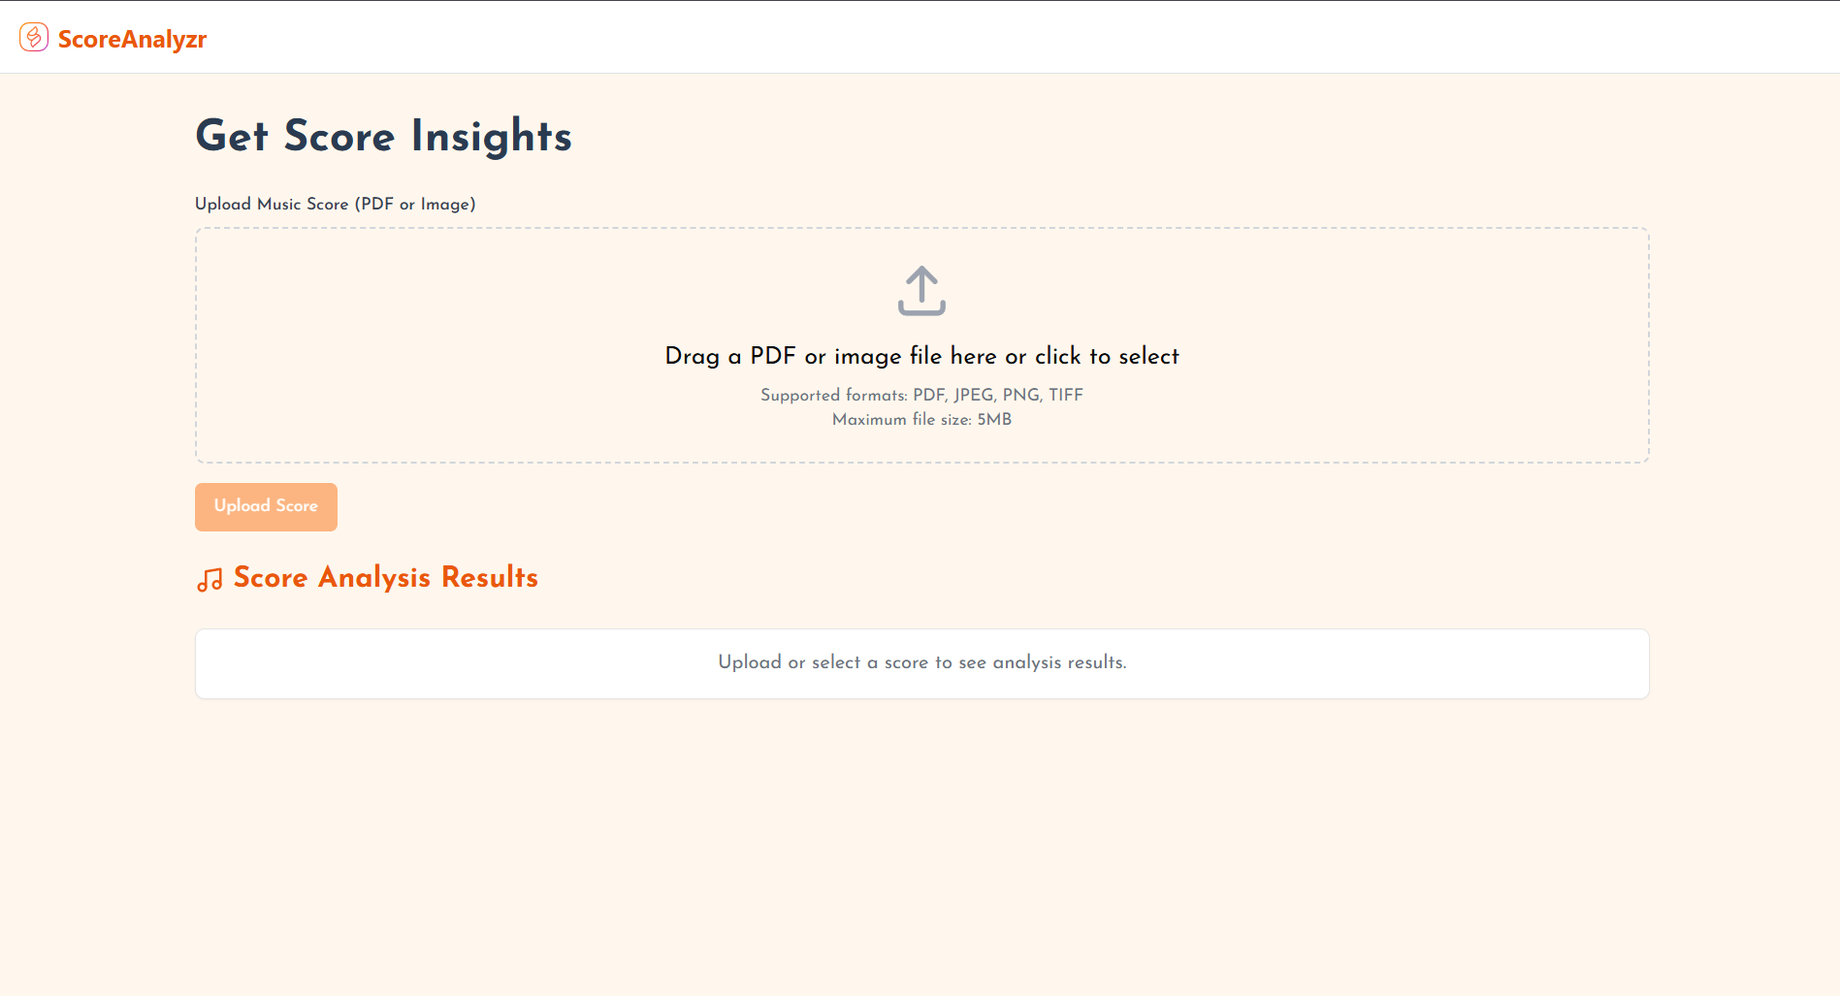
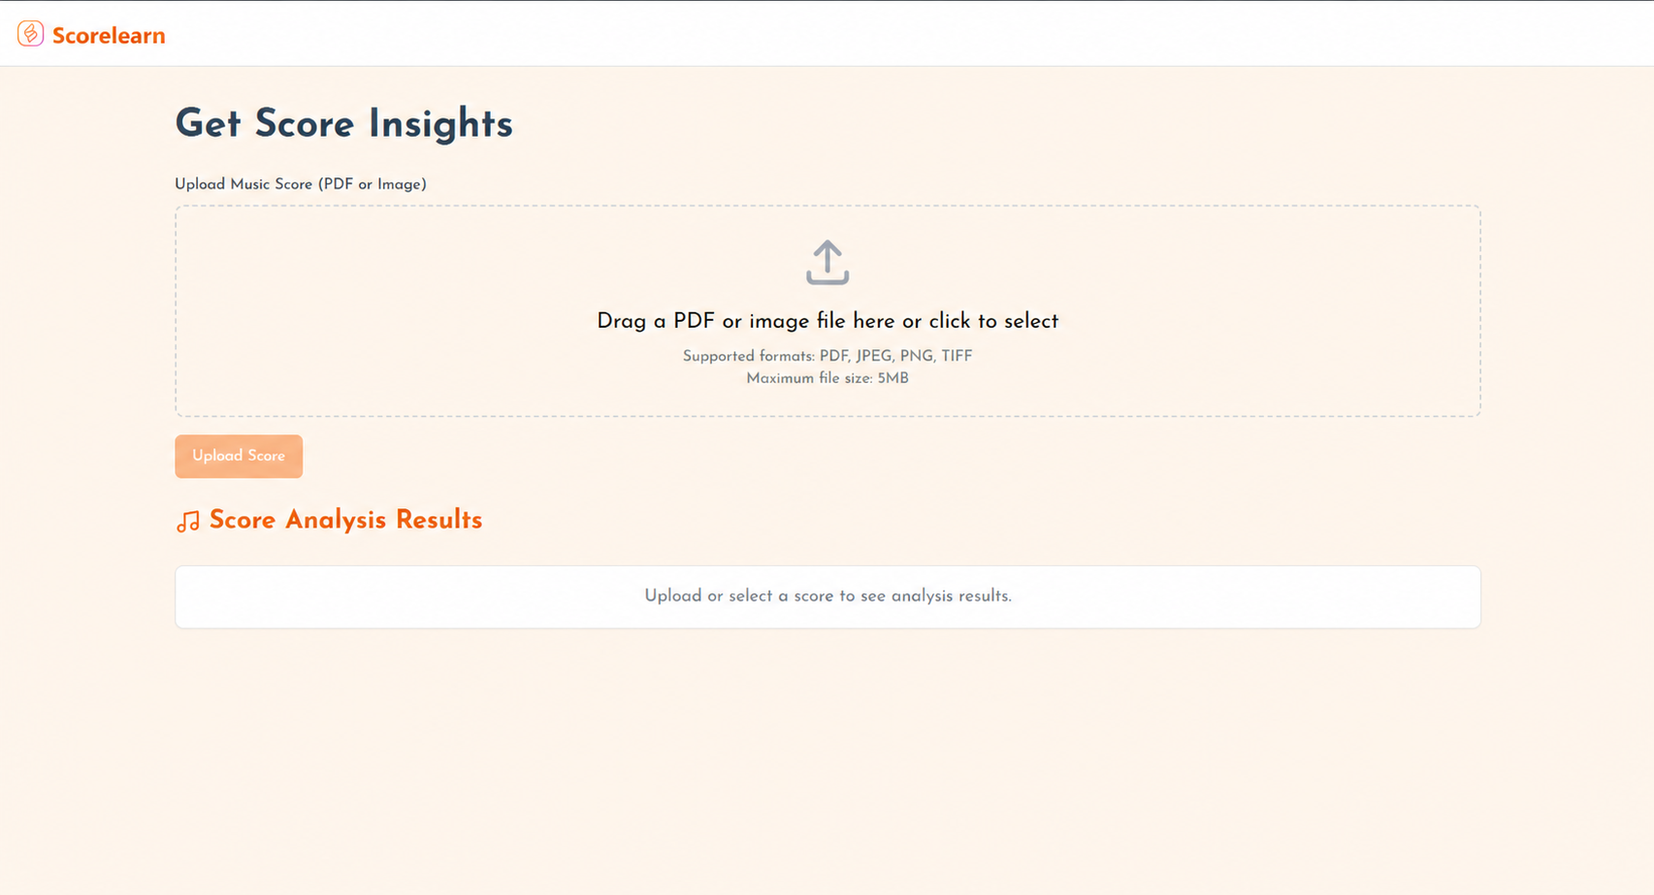
Add Scorelearn portfolio case study

diff --git a/projects/scorelearn.html b/projects/scorelearn.html
@@ -1,0 +1,232 @@
+<!DOCTYPE html>
+<html lang="en">
+
+<head>
+  <meta charset="UTF-8" />
+  <meta http-equiv="X-UA-Compatible" content="IE=edge" />
+  <meta name="viewport" content="width=device-width, initial-scale=1.0" />
+  <link rel="icon" href="../src/assets/me.jpg" />
+  <meta name="description"
+    content="Scorelearn engineering case study by Evans Gitahi: multi-format music transcription, asynchronous processing, symbolic score normalization, music theory analysis, notation, and MIDI playback." />
+  <title>Scorelearn Case Study | Evans Gitahi</title>
+  <link href="../src/output.css" rel="stylesheet">
+  <link rel="stylesheet" href="../src/style.css" />
+  <link rel="stylesheet" href="../src/mediaqueries.css" />
+</head>
+
+<body class="case-study-page">
+  <nav id="desktop-nav" class="nav-container" aria-label="Primary navigation">
+    <a class="logo" href="../index.html#profile">
+      <span class="logo-text gradient-text">Evans Gitahi</span>
+      <span class="logo-subtitle">Full-Stack & DevOps</span>
+    </a>
+    <div>
+      <ul class="nav-links">
+        <li><a href="../index.html#about">About</a></li>
+        <li><a href="../index.html#experience">Skills</a></li>
+        <li><a href="../index.html#career">Experience</a></li>
+        <li><a href="../index.html#projects" aria-current="true">Projects</a></li>
+        <li><a href="../index.html#contact">Contact</a></li>
+      </ul>
+    </div>
+  </nav>
+
+  <nav id="hamburger-nav" aria-label="Mobile navigation">
+    <a class="logo" href="../index.html#profile">
+      <span class="logo-text gradient-text">Evans Gitahi</span>
+      <span class="logo-subtitle">Full-Stack & DevOps</span>
+    </a>
+    <div class="hamburger-menu">
+      <button class="hamburger-icon" type="button" aria-label="Open navigation menu" aria-expanded="false"
+        aria-controls="mobile-menu-links">
+        <span></span>
+        <span></span>
+        <span></span>
+      </button>
+      <ul class="menu-links" id="mobile-menu-links">
+        <li><a href="../index.html#about">About</a></li>
+        <li><a href="../index.html#experience">Skills</a></li>
+        <li><a href="../index.html#career">Experience</a></li>
+        <li><a href="../index.html#projects">Projects</a></li>
+        <li><a href="../index.html#contact">Contact</a></li>
+      </ul>
+    </div>
+  </nav>
+
+  <main class="case-study-main">
+    <section class="case-study-hero">
+      <div class="case-study-hero-inner">
+        <div>
+          <p class="case-study-eyebrow">Music intelligence pipeline case study</p>
+          <h1 class="case-study-title">Scorelearn</h1>
+          <p class="case-study-lede">
+            I built a full-stack workflow that turns sheet-music PDFs, score images, and recorded audio into one
+            analyzable score model, then makes the result visible, playable, downloadable, and easier to understand.
+          </p>
+          <div class="case-study-meta">
+            <div class="case-study-meta-item">
+              <span class="case-study-meta-label">Role</span>
+              <span class="case-study-meta-value">System design, full-stack implementation, and deployment</span>
+            </div>
+            <div class="case-study-meta-item">
+              <span class="case-study-meta-label">Stack</span>
+              <span class="case-study-meta-value">Next.js, TypeScript, Django REST, Celery, PostgreSQL, Redis, Music21</span>
+            </div>
+            <div class="case-study-meta-item">
+              <span class="case-study-meta-label">Core constraint</span>
+              <span class="case-study-meta-value">Unify noisy visual and audio inputs without hiding transcription uncertainty</span>
+            </div>
+            <div class="case-study-meta-item">
+              <span class="case-study-meta-label">Delivery state</span>
+              <span class="case-study-meta-value">Live product with active transcription-quality and hardening work</span>
+            </div>
+          </div>
+          <div class="case-study-actions">
+            <a class="btn btn-color-1" href="https://scorelearn.site" target="_blank" rel="noopener noreferrer"
+              referrerpolicy="no-referrer">Live Demo</a>
+            <a class="btn btn-color-2" href="https://github.com/gitahievans/scoreanalyzr" target="_blank"
+              rel="noopener noreferrer">Frontend Repo</a>
+            <a class="btn btn-color-2" href="https://github.com/gitahievans/nota_db" target="_blank"
+              rel="noopener noreferrer">Backend Repo</a>
+          </div>
+        </div>
+        <figure class="case-study-image">
+          <img src="../src/assets/score.png" alt="Scorelearn score upload and analysis interface" />
+        </figure>
+      </div>
+    </section>
+
+    <div class="case-study-content">
+      <section class="case-study-section case-study-intro">
+        <h2>Engineering brief</h2>
+        <div>
+          <p class="case-study-callout">
+            Scorelearn treats score analysis as a pipeline, not a single AI request. It first converts different media into
+            symbolic music, repairs that intermediate representation, derives inspectable music-theory facts, and only
+            then uses generation to explain those facts to a learner.
+          </p>
+          <div class="case-study-facts" aria-label="Project facts">
+            <div><strong>Inputs</strong><span>PDF, JPEG, PNG, TIFF, WebP, MP3, WAV, and M4A</span></div>
+            <div><strong>Outputs</strong><span>Structured analysis, MusicXML, MIDI, notation, playback, summary</span></div>
+            <div><strong>Surfaces</strong><span>Upload, live job progress, results, score viewer, player</span></div>
+          </div>
+        </div>
+      </section>
+
+      <section class="case-study-section">
+        <h2>System boundary</h2>
+        <div>
+          <p>
+            The browser owns interaction and visualization, while Django owns validation and the score record. Heavy
+            recognition and analysis leave the request cycle entirely: Celery workers branch by source type, converge
+            on MusicXML, and persist both structured results and artifact endpoints for the frontend.
+          </p>
+          <ol class="architecture-flow" aria-label="Scorelearn processing flow">
+            <li><span>01</span><strong>Next.js workspace</strong><small>Upload, task polling, results, notation, playback</small></li>
+            <li><span>02</span><strong>Django REST API</strong><small>File validation, records, task dispatch, artifact delivery</small></li>
+            <li><span>03</span><strong>Celery pipeline</strong><small>Audiveris OMR or Basic Pitch audio transcription</small></li>
+            <li><span>04</span><strong>Symbolic core</strong><small>Normalization, Music21 analysis, MusicXML and MIDI</small></li>
+          </ol>
+        </div>
+      </section>
+
+      <section class="case-study-section">
+        <h2>Critical decisions</h2>
+        <div class="decision-list">
+          <article class="decision-item">
+            <p class="decision-kicker">Decision 01 / Architecture</p>
+            <h3>Converge every source on a symbolic score</h3>
+            <p>PDFs and images pass through Audiveris optical music recognition; audio passes through Basic Pitch to produce MIDI. Both branches become MusicXML before the rest of the product analyzes or presents them.</p>
+            <p class="decision-impact"><strong>Why it matters:</strong> analysis, notation, playback, and downloads share one downstream contract instead of duplicating logic for every input type.</p>
+          </article>
+          <article class="decision-item">
+            <p class="decision-kicker">Decision 02 / Responsiveness</p>
+            <h3>Model long-running work as an observable job</h3>
+            <p>Uploads dispatch a Celery task through Redis. The worker publishes named stages and progress percentages, while React Query polls the score endpoint and stops only at a terminal state.</p>
+            <p class="decision-impact"><strong>Why it matters:</strong> expensive recognition never holds an HTTP request open, and a failed validation, transcription, cleanup, or analysis stage remains visible to the user.</p>
+          </article>
+          <article class="decision-item">
+            <p class="decision-kicker">Decision 03 / Data quality</p>
+            <h3>Repair the transcription before trusting its analysis</h3>
+            <p>The normalization pass quantizes timing and duration, removes duplicate or overlapping note events, limits implausibly dense onsets, selects a clef, and can split piano-range material into two staves.</p>
+            <p class="decision-impact"><strong>Tradeoff:</strong> cleanup can simplify nuance, but it produces a more stable draft for theory analysis and playback. The interface labels audio transcriptions as drafts rather than polished engraving.</p>
+          </article>
+          <article class="decision-item">
+            <p class="decision-kicker">Decision 04 / AI boundary</p>
+            <h3>Derive musical facts before generating an explanation</h3>
+            <p>Music21 detects key, meter, tempo, parts, instrumentation, chords, measures, dynamics, accidentals, and articulations. Gemini receives those results afterward to create a concise, beginner-focused explanation.</p>
+            <p class="decision-impact"><strong>Why it matters:</strong> generative text explains an inspectable analysis payload; it is not asked to infer the score directly from an opaque upload.</p>
+          </article>
+        </div>
+      </section>
+
+      <section class="case-study-section">
+        <h2>Learning workspace</h2>
+        <div class="case-study-grid case-study-grid-three">
+          <article class="case-study-panel">
+            <p class="panel-number">01</p><h3>Inspect the score</h3>
+            <p>OpenSheetMusicDisplay renders the generated MusicXML with responsive zoom and pan, and users can download the symbolic score for work in other notation tools.</p>
+          </article>
+          <article class="case-study-panel">
+            <p class="panel-number">02</p><h3>Hear the result</h3>
+            <p>A Tone.js MIDI player exposes transport, progress, tempo, volume, and instrument controls. Audio uploads keep the source recording available beside the generated score playback.</p>
+          </article>
+          <article class="case-study-panel">
+            <p class="panel-number">03</p><h3>Understand the theory</h3>
+            <p>Results separate primary signatures from structure and performance details, then add an on-demand explanation aimed at learners who may not yet know the terminology.</p>
+          </article>
+        </div>
+      </section>
+
+      <section class="case-study-section">
+        <h2>Production lens</h2>
+        <div>
+          <div class="readiness-table" role="table" aria-label="Scorelearn production readiness">
+            <div class="readiness-row readiness-head" role="row"><span>Concern</span><span>Current evidence</span><span>Boundary</span></div>
+            <div class="readiness-row" role="row"><strong>Frontend</strong><span>Next.js deployed through OpenNext on Cloudflare with a custom domain</span><span class="status-done">Live</span></div>
+            <div class="readiness-row" role="row"><strong>Runtime</strong><span>Containerized Django, Celery, PostgreSQL, Redis, and Caddy services with health checks</span><span class="status-done">Operational topology</span></div>
+            <div class="readiness-row" role="row"><strong>Input safety</strong><span>Extension and MIME allow-lists, explicit source types, file-size checks, isolated job workspaces</span><span class="status-done">Implemented</span></div>
+            <div class="readiness-row" role="row"><strong>Lifecycle</strong><span>Per-job temporary artifacts and delayed cleanup after processing</span><span class="status-watch">Retention depends on artifact access needs</span></div>
+            <div class="readiness-row" role="row"><strong>Accuracy</strong><span>Cleanup metadata, draft labels, stage-specific failures, guidance for unsuitable audio</span><span class="status-watch">Benchmark against a representative score corpus</span></div>
+            <div class="readiness-row" role="row"><strong>Operations</strong><span>Structured worker stages and progress are exposed to the client</span><span class="status-watch">Add service metrics, tracing, and queue alerts</span></div>
+          </div>
+          <p class="case-study-note">
+            Music transcription is probabilistic: clean solo recordings and high-quality scans work better than dense
+            mixes or damaged scores. The product communicates that boundary and presents generated notation as an
+            editable draft, while the next hardening step is measuring accuracy across a representative test corpus.
+          </p>
+        </div>
+      </section>
+
+      <section class="case-study-section">
+        <h2>What this demonstrates</h2>
+        <div>
+          <ul class="case-study-checklist">
+            <li>Designing a heterogeneous media pipeline around a stable symbolic intermediate representation.</li>
+            <li>Moving CPU-heavy recognition into asynchronous workers with explicit progress, failure, and cleanup states.</li>
+            <li>Combining deterministic music analysis with a deliberately narrow generative explanation layer.</li>
+            <li>Building one responsive workspace across upload, analysis, score rendering, audio, MIDI, and downloadable artifacts.</li>
+          </ul>
+          <div class="case-study-tags" aria-label="Technical competencies">
+            <span>Next.js</span><span>TypeScript</span><span>Django REST Framework</span><span>Celery</span>
+            <span>PostgreSQL</span><span>Redis</span><span>Audiveris</span><span>Basic Pitch</span>
+            <span>Music21</span><span>MusicXML</span><span>OpenSheetMusicDisplay</span><span>Tone.js</span>
+            <span>Cloudflare</span><span>Docker</span>
+          </div>
+        </div>
+      </section>
+
+    </div>
+  </main>
+
+  <section class="case-study-nav" aria-label="Project navigation">
+    <div class="case-study-nav-inner">
+      <a class="case-study-nav-link" href="../index.html#projects">Back to Projects</a>
+      <a class="case-study-nav-link" href="./ladyshelf.html">Next Case Study: LadyShelf</a>
+    </div>
+  </section>
+
+  <script type="module" src="../src/main.js"></script>
+</body>
+
+</html>

diff --git a/index.html b/index.html
@@ -63,7 +63,9 @@
       <p class="hero-summary" data-motion-item="summary">I build production-ready applications across the stack, then
         design the delivery pipelines and containerised infrastructure that keep them reliable.</p>
       <div class="btn-container" data-motion-item="actions">
-        <a class="btn btn-color-2" href="./Evans_Gitahi_Resume.pdf" download="Evans_Gitahi_Resume.pdf">
+        <a class="btn btn-color-2"
+          href="https://drive.google.com/file/d/1s9exi6OsiH7BTMlSvVx2Rdby5qKAiZM3/view?usp=sharing"
+          target="_blank" rel="noopener noreferrer" referrerpolicy="no-referrer">
           Download CV
         </a>
         <button class="btn btn-color-1" onclick="location.href='./#contact'">
@@ -330,34 +332,34 @@
     <div class="experience-details-container">
       <div class="about-containers" data-motion-group="projects">
         <div class="details-container color-container">
-          <a class="project-media-link" href="./projects/sceneit.html" aria-label="Read the SceneIt case study">
+          <a class="project-media-link" href="./projects/scorelearn.html" aria-label="Read the Scorelearn case study">
             <div class="article-container-project">
-              <img src="./src/assets/sceneit.png" alt="SceneIt movie recommendation app" class="project-img" />
+              <img src="./src/assets/score.png" alt="Scorelearn music score analysis workspace" class="project-img" />
               <div class="project-tech-stack">
                 <span>Next.js</span>
-                <span>Supabase</span>
-                <span>TMDB API</span>
+                <span>Django</span>
+                <span>Music21</span>
               </div>
             </div>
           </a>
           <h2 class="experience-sub-title project-title">
-            <a href="./projects/sceneit.html">SceneIt</a>
+            <a href="./projects/scorelearn.html">Scorelearn</a>
           </h2>
           <p class="project-description">
-            A movie discovery app with trending titles, genre browsing, protected auth flows, and personalized
-            recommendations powered by TMDB, Supabase, and AI-assisted discovery.
+            A full-stack music intelligence workspace that turns score PDFs, images, and audio into structured
+            analysis, interactive notation, playable MIDI, and beginner-friendly explanations.
           </p>
           <div class="key-features">
-            <span>✓ Personalized Recommendations</span>
-            <span>✓ Supabase Authentication</span>
-            <span>✓ AI Discovery</span>
+            <span>✓ Multi-Format Transcription</span>
+            <span>✓ Music Theory Analysis</span>
+            <span>✓ Notation & Playback</span>
           </div>
           <div class="btn-container">
-            <a class="btn btn-color-2 project-btn case-study-card-btn" href="./projects/sceneit.html">
+            <a class="btn btn-color-2 project-btn case-study-card-btn" href="./projects/scorelearn.html">
               Case Study
             </a>
             <a class="btn btn-color-2 project-btn" target="_blank" rel="noopener noreferrer"
-              href="https://github.com/gitahievans/SceneIt">
+              href="https://github.com/gitahievans/scoreanalyzr">
               <svg xmlns="http://www.w3.org/2000/svg" width="24" height="24" viewBox="0 0 24 24" fill="none"
                 stroke="currentColor" stroke-width="1" stroke-linecap="round" stroke-linejoin="round"
                 class="icon icon-tabler icons-tabler-outline icon-tabler-brand-github">
@@ -368,7 +370,7 @@
               Github
             </a>
             <a class="btn btn-color-1 project-btn" target="_blank" rel="noopener noreferrer"
-              referrerpolicy="no-referrer" href="https://seen-it-aymo.vercel.app/">
+              referrerpolicy="no-referrer" href="https://scorelearn.site">
               <svg xmlns="http://www.w3.org/2000/svg" width="6" height="6" viewBox="0 0 24 24" fill="none"
                 stroke="currentColor" stroke-width="1" stroke-linecap="round" stroke-linejoin="round"
                 class="icon icon-tabler icons-tabler-outline icon-tabler-link">
@@ -422,6 +424,59 @@
             </a>
             <a class="btn btn-color-1 project-btn" target="_blank" rel="noopener noreferrer"
               referrerpolicy="no-referrer" href="https://ladyshelf.site">
+              <svg xmlns="http://www.w3.org/2000/svg" width="6" height="6" viewBox="0 0 24 24" fill="none"
+                stroke="currentColor" stroke-width="1" stroke-linecap="round" stroke-linejoin="round"
+                class="icon icon-tabler icons-tabler-outline icon-tabler-link">
+                <path stroke="none" d="M0 0h24v24H0z" fill="none" />
+                <path d="M9 15l6 -6" />
+                <path d="M11 6l.463 -.536a5 5 0 0 1 7.071 7.072l-.534 .464" />
+                <path d="M13 18l-.397 .534a5.068 5.068 0 0 1 -7.127 0a4.972 4.972 0 0 1 0 -7.071l.524 -.463" />
+              </svg>
+              Live Demo
+            </a>
+          </div>
+        </div>
+
+        <div class="details-container color-container">
+          <a class="project-media-link" href="./projects/sceneit.html" aria-label="Read the SceneIt case study">
+            <div class="article-container-project">
+              <img src="./src/assets/sceneit.png" alt="SceneIt movie recommendation app" class="project-img" />
+              <div class="project-tech-stack">
+                <span>Next.js</span>
+                <span>Supabase</span>
+                <span>TMDB API</span>
+              </div>
+            </div>
+          </a>
+          <h2 class="experience-sub-title project-title">
+            <a href="./projects/sceneit.html">SceneIt</a>
+          </h2>
+          <p class="project-description">
+            A movie discovery app with trending titles, genre browsing, protected auth flows, and personalized
+            recommendations powered by TMDB, Supabase, and AI-assisted discovery.
+          </p>
+          <div class="key-features">
+            <span>✓ Personalized Recommendations</span>
+            <span>✓ Supabase Authentication</span>
+            <span>✓ AI Discovery</span>
+          </div>
+          <div class="btn-container">
+            <a class="btn btn-color-2 project-btn case-study-card-btn" href="./projects/sceneit.html">
+              Case Study
+            </a>
+            <a class="btn btn-color-2 project-btn" target="_blank" rel="noopener noreferrer"
+              href="https://github.com/gitahievans/SceneIt">
+              <svg xmlns="http://www.w3.org/2000/svg" width="24" height="24" viewBox="0 0 24 24" fill="none"
+                stroke="currentColor" stroke-width="1" stroke-linecap="round" stroke-linejoin="round"
+                class="icon icon-tabler icons-tabler-outline icon-tabler-brand-github">
+                <path stroke="none" d="M0 0h24v24H0z" fill="none" />
+                <path
+                  d="M9 19c-4.3 1.4 -4.3 -2.5 -6 -3m12 5v-3.5c0 -1 .1 -1.4 -.5 -2c2.8 -.3 5.5 -1.4 5.5 -6a4.6 4.6 0 0 0 -1.3 -3.2a4.2 4.2 0 0 0 -.1 -3.2s-1.1 -.3 -3.5 1.3a12.3 12.3 0 0 0 -6.2 0c-2.4 -1.6 -3.5 -1.3 -3.5 -1.3a4.2 4.2 0 0 0 -.1 3.2a4.6 4.6 0 0 0 -1.3 3.2c0 4.6 2.7 5.7 5.5 6c-.6 .6 -.6 1.2 -.5 2v3.5" />
+              </svg>
+              Github
+            </a>
+            <a class="btn btn-color-1 project-btn" target="_blank" rel="noopener noreferrer"
+              referrerpolicy="no-referrer" href="https://seen-it-aymo.vercel.app/">
               <svg xmlns="http://www.w3.org/2000/svg" width="6" height="6" viewBox="0 0 24 24" fill="none"
                 stroke="currentColor" stroke-width="1" stroke-linecap="round" stroke-linejoin="round"
                 class="icon icon-tabler icons-tabler-outline icon-tabler-link">

diff --git a/projects/sceneit.html b/projects/sceneit.html
@@ -219,7 +219,7 @@
   <section class="case-study-nav" aria-label="Project navigation">
     <div class="case-study-nav-inner">
       <a class="case-study-nav-link" href="../index.html#projects">Back to Projects</a>
-      <a class="case-study-nav-link" href="./ladyshelf.html">Next Case Study: LadyShelf</a>
+      <a class="case-study-nav-link" href="./ladyshelf.html">Previous Case Study: LadyShelf</a>
     </div>
   </section>
 

diff --git a/projects/ladyshelf.html b/projects/ladyshelf.html
@@ -218,7 +218,7 @@
   <section class="case-study-nav" aria-label="Project navigation">
     <div class="case-study-nav-inner">
       <a class="case-study-nav-link" href="../index.html#projects">Back to Projects</a>
-      <a class="case-study-nav-link" href="./sceneit.html">Previous Case Study: SceneIt</a>
+      <a class="case-study-nav-link" href="./sceneit.html">Next Case Study: SceneIt</a>
     </div>
   </section>
 

diff --git a/README.md b/README.md
@@ -77,7 +77,7 @@ A front-end developer with expertise in building large-scale, high-performing, u
 - **File Storage:** Integrated Cloudflare R2 for secure, high-performance file delivery.  
 - **Payment Integration:** Implemented Paystack API for secure transaction processing.
 
-### Scoreanalyzr  
+### Scorelearn
 - **Description:** Built responsive frontend interface for automated score digitization with React and TypeScript.  
 - **Features:**  
   - Implemented performance-optimized file upload handling and real-time data visualization.  
